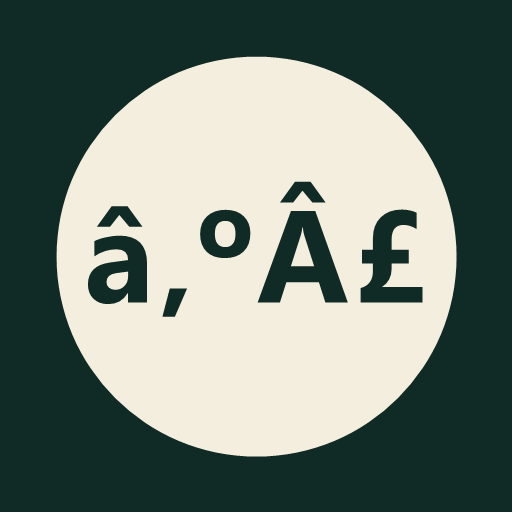
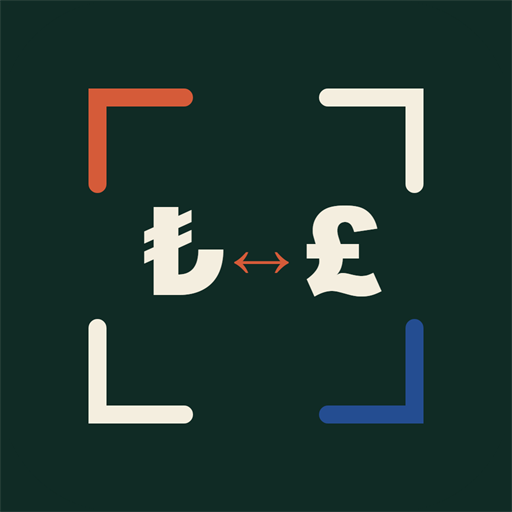
Refresh Cebimde Kur branding (#4)

diff --git a/app/page.tsx b/app/page.tsx
@@ -1,5 +1,6 @@
 "use client";
 
+import Image from "next/image";
 import { useCallback, useEffect, useMemo, useRef, useState } from "react";
 
 type StoredRate = {
@@ -262,11 +263,15 @@ export default function Home() {
     <main>
       <section className="converter-shell" aria-label="Türk lirası ve İngiliz sterlini dönüştürücü">
         <header className="site-header">
-          <div className="brand-mark" aria-hidden="true">₺£</div>
-          <div>
-            <p className="eyebrow">CEBİMDE KUR</p>
-            <h1>TL ↔ Sterlin</h1>
-          </div>
+          <Image
+            className="brand-lockup"
+            src="/brand/logo-primary-no-tagline.svg"
+            alt="Cebimde Kur"
+            width={1500}
+            height={500}
+            priority
+            unoptimized
+          />
           <button
             className={`status-pill ${status}`}
             type="button"

diff --git a/app/globals.css b/app/globals.css
@@ -47,38 +47,15 @@ main {
 
 .site-header {
   display: grid;
-  grid-template-columns: auto 1fr auto;
+  grid-template-columns: minmax(0, 1fr) auto;
   align-items: center;
   gap: 12px;
 }
 
-.brand-mark {
-  width: 46px;
-  height: 46px;
-  display: grid;
-  place-items: center;
-  border-radius: 15px;
-  background: var(--ink);
-  color: #fff8e9;
-  font-family: var(--font-geist-mono), monospace;
-  font-weight: 800;
-  letter-spacing: -4px;
-  padding-right: 4px;
-  box-shadow: 0 8px 20px rgba(16, 43, 37, 0.18);
-}
-
-.eyebrow {
-  margin: 0 0 3px;
-  color: var(--lira);
-  font: 750 10px/1 var(--font-geist-mono), monospace;
-  letter-spacing: 0.19em;
-}
-
-h1 {
-  margin: 0;
-  font-size: 20px;
-  line-height: 1.05;
-  letter-spacing: -0.04em;
+.brand-lockup {
+  display: block;
+  width: min(172px, 100%);
+  height: auto;
 }
 
 .status-pill {

diff --git a/app/manifest.ts b/app/manifest.ts
@@ -12,13 +12,13 @@ export default function manifest(): MetadataRoute.Manifest {
     lang: "tr",
     icons: [
       {
-        src: "/icon-192.png",
+        src: "/icon-192.png?v=3",
         sizes: "192x192",
         type: "image/png",
         purpose: "any",
       },
       {
-        src: "/icon-512.png",
+        src: "/icon-512.png?v=3",
         sizes: "512x512",
         type: "image/png",
         purpose: "any maskable",

diff --git a/app/layout.tsx b/app/layout.tsx
@@ -33,9 +33,9 @@ export async function generateMetadata(): Promise<Metadata> {
     applicationName: "Cebimde Kur",
     manifest: "/manifest.webmanifest",
     icons: {
-      icon: "/favicon.svg",
-      shortcut: "/favicon.svg",
-      apple: "/icon-180.png",
+      icon: "/favicon.svg?v=3",
+      shortcut: "/favicon.svg?v=3",
+      apple: "/icon-180.png?v=3",
     },
     appleWebApp: {
       capable: true,

diff --git a/public/sw.js b/public/sw.js
@@ -1,4 +1,4 @@
-const CACHE = "cebimde-kur-v2";
+const CACHE = "cebimde-kur-v3";
 const APP_SHELL = ["/"];
 
 self.addEventListener("install", (event) => {

diff --git a/design-qa.md b/design-qa.md
@@ -1,0 +1,55 @@
+# Cebimde Kur Brand Integration — Design QA
+
+- Source visual truth: `public/brand/logo-primary-no-tagline.svg` and `public/brand/app-icon.svg`
+- Upstream source: `https://github.com/erkanaltuntastr-cmyk/cebimde-kur-assets/tree/main/brand`
+- Implementation screenshot: `outputs/brand-qa/design-qa-mobile.png`
+- Focused header capture: `outputs/brand-qa/design-qa-header.png`
+- Combined comparison: `outputs/brand-qa/design-qa-comparison.png`
+- Viewport: 390 × 844 CSS px
+- Implementation pixels: 390 × 844
+- Device pixel ratio: 1
+- Source logo pixels: 1500 × 500
+- Source app icon pixels: 1024 × 1024
+- Generated PWA icon reviewed at: 512 × 512
+- State: mobile converter, live rate, TRY input active, install prompt unavailable in the test browser
+
+## Full-view comparison evidence
+
+The mobile screen keeps the existing converter hierarchy, spacing, cards, controls, rate detail, disclaimer and credit unchanged. The new compact logo sits in the existing header space without horizontal overflow or collision with the live-rate status pill. The page has no horizontal overflow at 390 px.
+
+## Focused comparison evidence
+
+The focused header comparison preserves the source artwork's dark-green scan frame, coral `CEBİMDE`, dark-green `KUR`, cream symbols and blue lower-right corner. The PWA export preserves the icon artwork and uses a full-bleed dark-green background so Android and iOS can apply their own circle or squircle masks without transparent corner halos.
+
+Focused review was required because the header logo and currency marks are too small to judge reliably from the full mobile screenshot alone.
+
+## Required fidelity surfaces
+
+- Fonts and typography: source SVG font declarations and weights are preserved; the compact lockup remains legible at 172 px wide.
+- Spacing and layout rhythm: the logo and status pill fit on one row; existing shell padding and vertical rhythm are unchanged.
+- Colors and visual tokens: `#102B25`, `#D55B39`, `#244D91`, `#F4EEDF` and `#FFFDF8` match the supplied brand palette.
+- Image quality and asset fidelity: SVG masters are used directly in the UI; 180, 192 and 512 PNG exports were generated from the master at high quality. No placeholder, emoji or CSS reconstruction is used.
+- Copy and content: the logo reads `CEBİMDE KUR`; converter copy and labels remain unchanged.
+
+## Findings
+
+No actionable P0, P1 or P2 visual differences were found.
+
+The app-icon source has transparent rounded corners, while installed PWA exports use full-bleed dark green. This is an intentional platform adaptation rather than design drift: the operating system supplies the final icon mask.
+
+## Primary interactions tested
+
+- Entering `2500` TRY updated the GBP result to `38,73`.
+- The swap-direction control moved the active state to GBP without losing either amount.
+- The page loaded at the phone viewport with no horizontal overflow.
+- Browser console errors and warnings: none.
+
+## Comparison history
+
+The first formal source-to-implementation comparison passed with no P0/P1/P2 fixes required. Before formal QA, the icon generation path exposed a Windows character-encoding problem; the renderer was fixed to read the SVG as UTF-8 and the icons were regenerated before comparison.
+
+## Follow-up polish
+
+No blocking polish remains. The tagline version stays available for wider marketing placements, while the no-tagline lockup is intentionally used in the compact mobile header.
+
+final result: passed

diff --git a/public/brand/README.md b/public/brand/README.md
@@ -1,0 +1,26 @@
+# Cebimde Kur — Brand Assets
+
+Public brand assets for **Cebimde Kur / Oakwood Xchange**.
+
+## Core assets
+
+- `logo-primary.svg` — primary horizontal logo with tagline
+- `logo-primary-no-tagline.svg` — compact horizontal logo
+- `logo-reversed-dark.svg` — reversed logo for dark backgrounds
+- `app-icon.svg` — master app icon / scan mark
+
+## Brand palette
+
+- Dark green: `#102B25`
+- TRY coral: `#D55B39`
+- GBP blue: `#244D91`
+- Warm cream: `#F4EEDF`
+- Paper: `#FFFDF8`
+
+## Concept
+
+The four corner marks represent a camera/price scanning frame. The `₺ ↔ £` symbol communicates instant TRY/GBP conversion. The identity is designed to work for the current manual currency converter and the planned camera-based price recognition experience.
+
+## Recommended usage
+
+Use `logo-primary.svg` in the website header and marketing material. Use `app-icon.svg` as the source artwork for PWA, iOS and Android icon exports.
